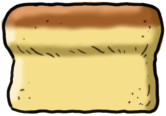
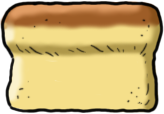
Cleaned up graphics. Fixed land on plate food bug..

diff --git a/Inbread/Inbread/KitchenScene.m b/Inbread/Inbread/KitchenScene.m
@@ -110,7 +110,6 @@ static int condimentScores[4] = {4,5,6, 0};
 -(void)setUpWithLevel:(int)l
 {
     level = l;
-    NSLog(@"Level: %d",level);
     DataHandler *dh = [DataHandler sharedDataHandler];
     [conveyorNode removeAllChildren];
     [foodNode removeAllChildren];
@@ -133,8 +132,6 @@ static int condimentScores[4] = {4,5,6, 0};
     
     levDic = [dh getLevelNumber:level];
     NSDictionary *restDic = [dh getRestaurantForLevel:level];
-    NSLog(@"levDic: %@",levDic);
-    NSLog(@"restDic: %@",restDic);
     
     // Put in background image
     SKSpriteNode *backgroundTiles = [SKSpriteNode spriteNodeWithImageNamed:[restDic objectForKey:@"background"]];
@@ -234,6 +231,7 @@ static int condimentScores[4] = {4,5,6, 0};
     // Conveyor belts
 //    y = planeY[numPlanes-1];
     y = planeY[1];
+    beltVelocities[0] = 0;
     for (int i=0;i<numPlanes-1;i++)
     {
         SKNode *beltNode = [SKNode node];
@@ -504,7 +502,6 @@ static int condimentScores[4] = {4,5,6, 0};
 
 -(void)removeCondiment:(Condiment*)cObj
 {
-    NSLog(@"Removing condiment");
     [cObj removeSprite];
     [condiments removeObject:cObj];
 }
@@ -600,13 +597,10 @@ static int condimentScores[4] = {4,5,6, 0};
         CGPoint location = [touch locationInNode:backgroundNode];
         
         Food *touchF = NULL;
-        NSLog(@"Touchdown %f,%f",location.x,location.y);
         for (Food *tmpF in sprites)
         {
-            NSLog(@"Food position: %f,%f",tmpF.holderNode.position.x,tmpF.holderNode.position.y);
             if ([tmpF isTouchingAtX:location.x andY:location.y])
             {
-                NSLog(@"Touching");
                 touchF = tmpF;
             }
         }

diff --git a/Inbread/Inbread/AppDelegate.m b/Inbread/Inbread/AppDelegate.m
@@ -25,7 +25,6 @@
     NSMutableArray *highscores = [defaults objectForKey:@"highscores"];
     if (highscores == NULL)
     {
-        NSLog(@"Initializing highscores");
         highscores = [[NSMutableArray alloc] initWithCapacity:NUM_LEVELS];
         for (int i=0;i<NUM_LEVELS;i++)
             [highscores addObject:[NSNumber numberWithInt:0]];

diff --git a/Inbread/Inbread/HelpScene.m b/Inbread/Inbread/HelpScene.m
@@ -20,7 +20,7 @@
 @synthesize owner;
 @synthesize backgroundNode;
 
-static int helpScenes[NUM_HELP_SCENES] = {0,1,6,15};
+static int helpScenes[NUM_HELP_SCENES] = {0,1,7,15};
 
 -(id)initWithSize:(CGSize)size {
     if (self = [super initWithSize:size]) {

diff --git a/Inbread/Inbread/MyScene.m b/Inbread/Inbread/MyScene.m
@@ -233,7 +233,6 @@ static float extraHeight[3] = {32,32,20};
 
 -(void)removeFood:(Food*)fObj
 {
-    NSLog(@"Loaf removed");
     [fObj removeSprites];
     [sprites removeObject:fObj];
 }
